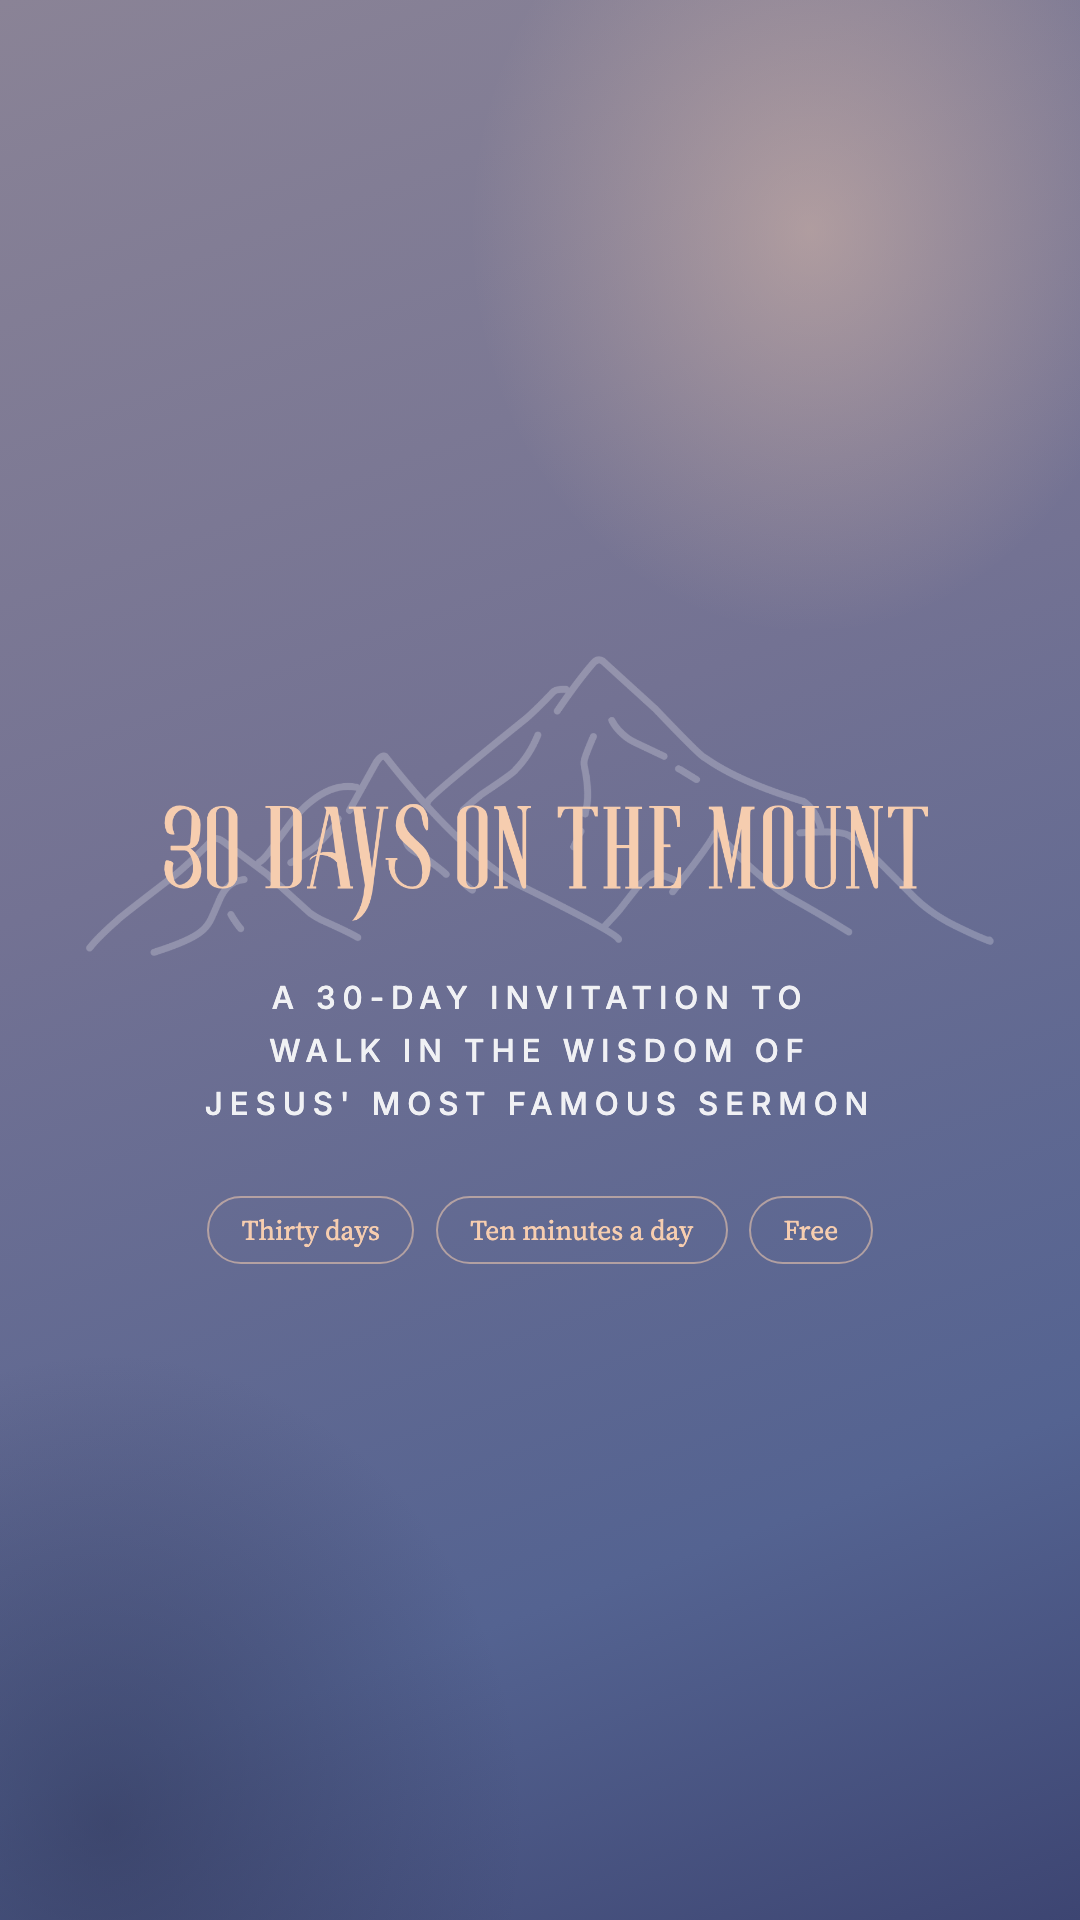
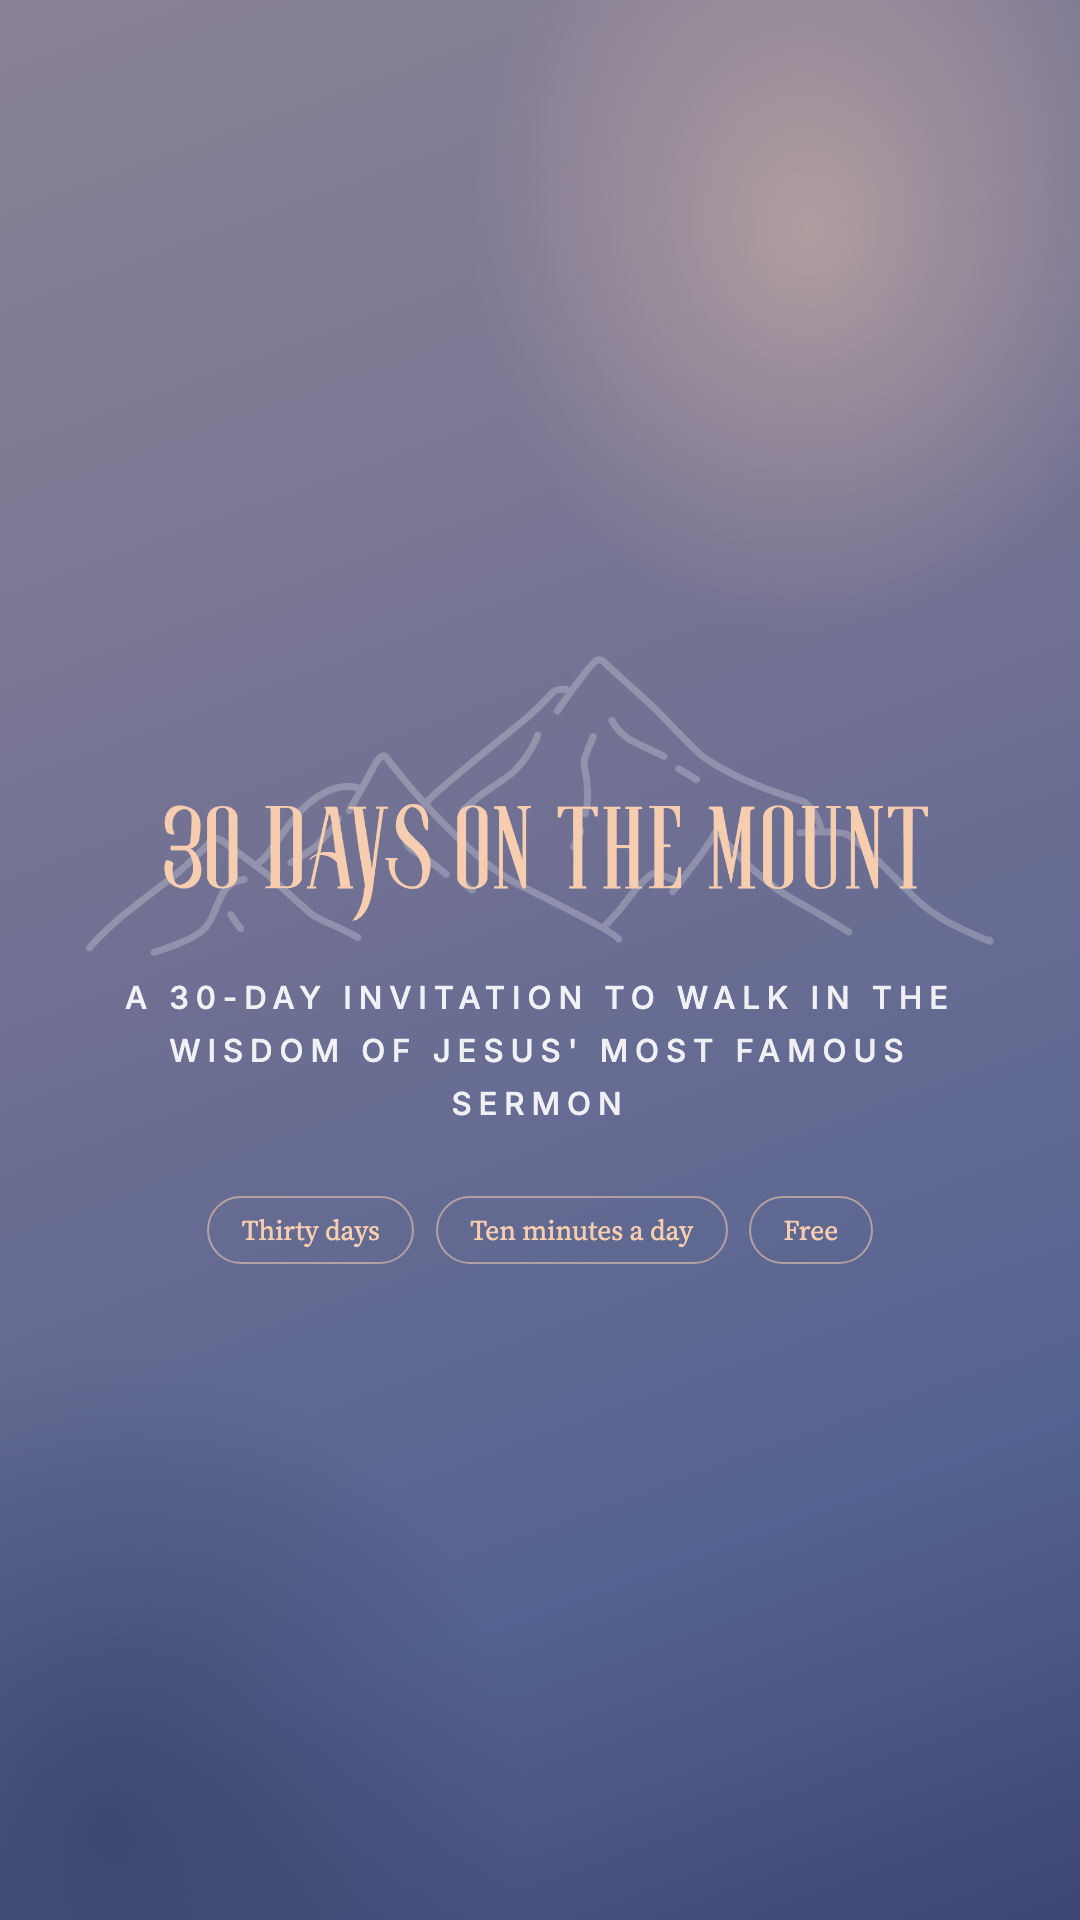
Marketing: centered lockup, tagline broken at "wisdom", a 5244x2950 header

Changed region(s): [[0.1528, 0.5, 0.825, 0.5938], [0.825, 0.5, 0.8861, 0.5312]]

diff --git a/marketing/studio/header.html b/marketing/studio/header.html
@@ -23,7 +23,7 @@
   .eyebrow { font-family: Inter, sans-serif; font-weight: 500; text-transform: uppercase; letter-spacing: 0.32em; color: #f6cdaf; font-size: calc(2.3 * var(--u)); }
   h1 { font-family: "Bodoni Moda", Didot, serif; font-weight: 400; font-size: calc(9.6 * var(--u)); line-height: 1; margin-top: calc(2.5 * var(--u)); white-space: nowrap; }
   .sub { margin-top: calc(3 * var(--u)); font-size: calc(3.8 * var(--u)); color: rgb(255 255 255 / 0.86); }
-  .phone { position: absolute; width: calc(30 * var(--u)); padding: calc(1 * var(--u)); border-radius: calc(5 * var(--u));
+  .phone { position: absolute; width: min(30vh, 13vw); padding: calc(1 * var(--u)); border-radius: calc(5 * var(--u));
     background: linear-gradient(160deg, #2b2e48, #111325);
     box-shadow: 0 calc(3 * var(--u)) calc(6 * var(--u)) rgb(15 17 35 / 0.6), inset 0 0 0 calc(0.15 * var(--u)) rgb(255 255 255 / 0.16); }
   .phone img { display: block; width: 100%; border-radius: calc(4 * var(--u)); }
@@ -32,9 +32,9 @@
 <body>
 <div class="light"></div>
 <!-- The brand lockup (wordmark over the mountain) and its tagline. -->
-<div class="copy" style="top: 9vh; width: 110vh">
+<div class="copy" style="top: 50%; transform: translate(-50%, -58%); width: min(110vh, 44vw)">
   <img src="Lockup.png" style="display:block; width:100%">
-  <p class="sub" id="sub" style="font-family: Inter, sans-serif; font-weight: 500; text-transform: uppercase; letter-spacing: 0.22em; font-size: calc(2.1 * var(--u)); margin-top: calc(0.5 * var(--u)); white-space: nowrap; margin-left: -20vh; margin-right: -20vh">A 30-day invitation to walk in the wisdom of Jesus' most famous sermon</p>
+  <p class="sub" id="sub" style="font-family: Inter, sans-serif; font-weight: 500; text-transform: uppercase; letter-spacing: 0.22em; font-size: min(2.1vh, 0.84vw); margin-top: calc(0.5 * var(--u)); line-height: 1.8">A 30-day invitation to walk in the<br>wisdom of Jesus' most famous sermon</p>
 </div>
 <div id="phones"></div>
 <script>
@@ -52,7 +52,8 @@
     const s = slots[i];
     const phone = document.createElement("div");
     phone.className = "phone";
-    phone.style.left = (W / 2 + s.x * W - 15 * u) + "px";
+    const half = Math.min(15 * u, 0.065 * W);
+    phone.style.left = (W / 2 + s.x * W - half) + "px";
     phone.style.top = s.y * u + "px";
     phone.style.transform = `rotate(${s.r}deg)`;
     const img = new Image();

diff --git a/marketing/studio/render.py b/marketing/studio/render.py
@@ -16,7 +16,7 @@ CHROME = "/Applications/Google Chrome.app/Contents/MacOS/Google Chrome"
 
 SIZES = {"iphone": (1320, 2868), "ipad": (2064, 2752)}
 
-TAGLINE = "A 30-day invitation to walk in the wisdom of Jesus' most famous sermon"
+TAGLINE = "A 30-day invitation to walk in the<br>wisdom of Jesus' most famous sermon"
 
 # The story the screenshots tell, in order. The first three carry the most
 # weight in search results.
